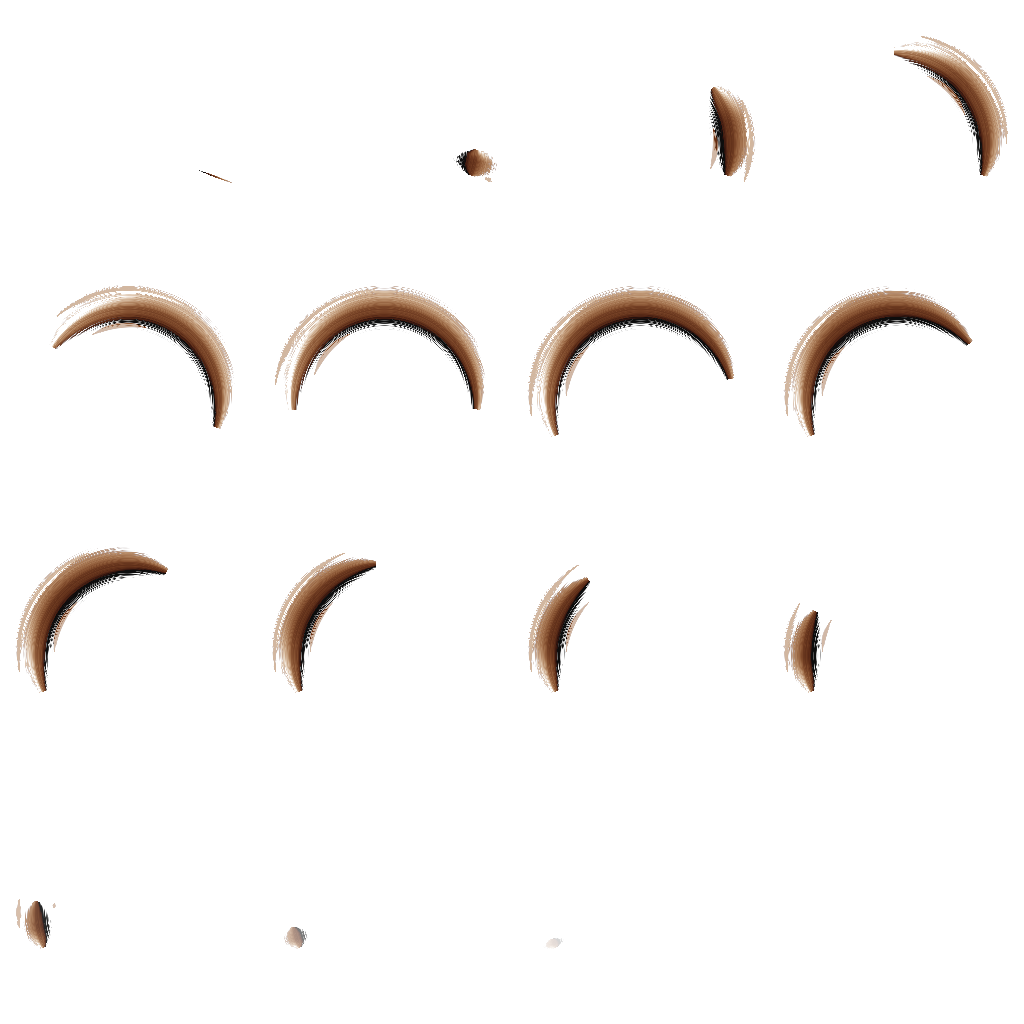
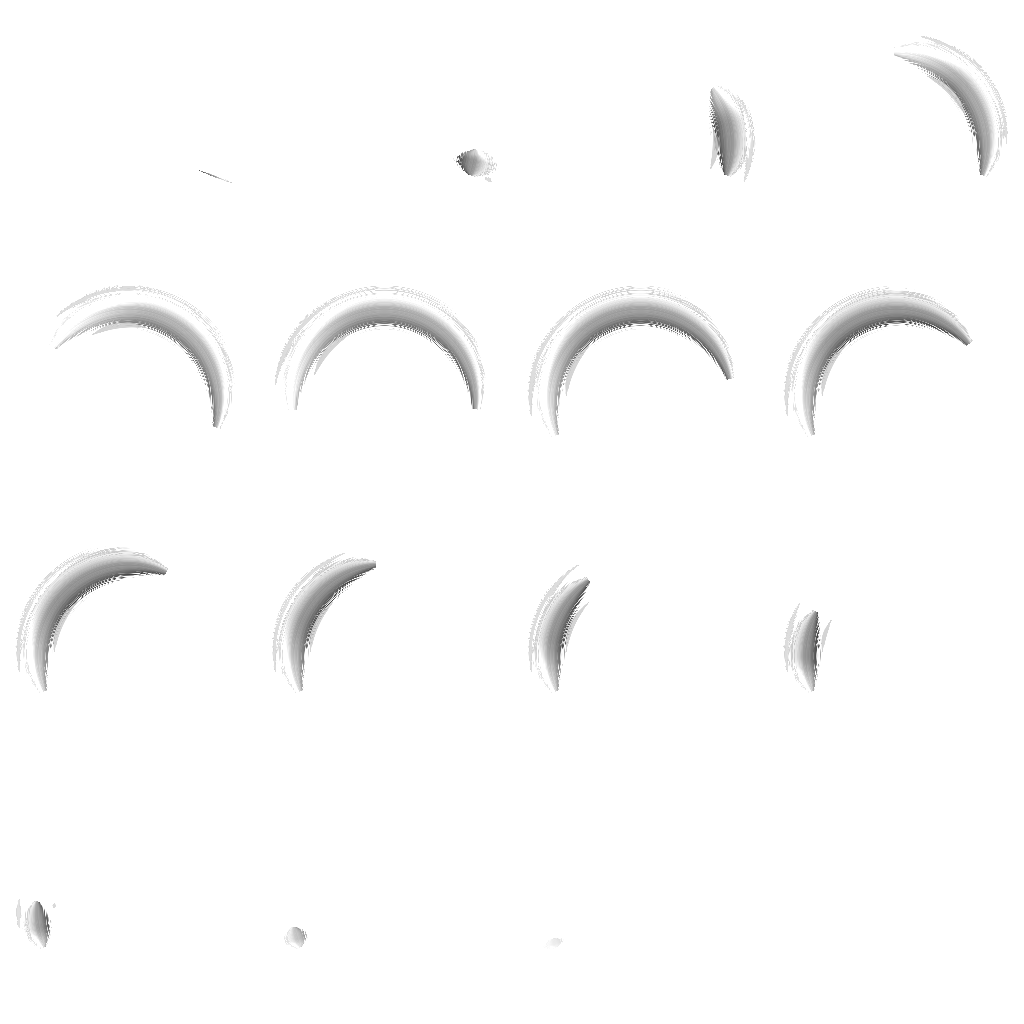
Add a Blender flipbook preview and the slash texture generator
tools/blender/preview_flipbook.py plays a Grid4x4 flipbook on two cards
(ice and fire tints, glowing like LightEmission) over a dark floor with a
ground glow and bloom. Works on Blender 3.x to 5.x.

tools/vfx/make_slash_crescent.py regenerates the crescent slash, now
neutral white so Roblox's Color tints it, brighter, with finer grain.

Claude-Session: https://claude.ai/code/session_01VW1eqeZ4PFMp5bCR7bGjsH

diff --git a/tools/blender/preview_flipbook.py b/tools/blender/preview_flipbook.py
@@ -1,0 +1,222 @@
+"""Preview a 4x4 VFX flipbook in Blender, the way Roblox plays it.
+
+Run it inside Blender (Scripting tab -> Open -> Run Script), or:
+    blender --python tools/blender/preview_flipbook.py -- assets/vfx/generated/slash_crescent_4x4.png
+
+It builds a dark floor, two cards playing the flipbook (tinted ice-blue and
+fire-orange, glowing like LightEmission = 1), a camera and bloom, then
+plays the animation in a loop. Press Space in the viewport to pause.
+"""
+import os
+import sys
+
+import bpy
+
+GRID = 4            # Grid4x4
+FPS = 30
+HOLD = 2            # Blender frames per flipbook frame (16 frames over ~1 s at 30 fps)
+TINTS = {"Ice": (0.55, 0.85, 1.0), "Fire": (1.0, 0.45, 0.12)}
+
+
+def flipbook_path() -> str:
+    argv = sys.argv[sys.argv.index("--") + 1:] if "--" in sys.argv else []
+    if argv:
+        return os.path.abspath(argv[0])
+    here = os.path.dirname(os.path.abspath(__file__)) if "__file__" in globals() else ""
+    guess = os.path.normpath(os.path.join(here, "..", "..", "assets", "vfx", "generated", "slash_crescent_4x4.png"))
+    if os.path.exists(guess):
+        return guess
+    blend_dir = bpy.path.abspath("//")
+    return os.path.join(blend_dir, "slash_crescent_4x4.png")
+
+
+def reset_scene():
+    scene = bpy.context.scene
+    for obj in list(scene.objects):          # clear the scene without touching the UI
+        bpy.data.objects.remove(obj, do_unlink=True)
+    scene.render.fps = FPS
+    scene.frame_start = 1
+    scene.frame_end = GRID * GRID * HOLD + 10   # a short gap before it loops
+    scene.render.engine = "BLENDER_EEVEE_NEXT" if "BLENDER_EEVEE_NEXT" in {e.identifier for e in bpy.types.RenderSettings.bl_rna.properties["engine"].enum_items} else "BLENDER_EEVEE"
+    eevee = scene.eevee
+    if hasattr(eevee, "use_bloom"):          # Blender < 4.2
+        eevee.use_bloom = True
+        eevee.bloom_intensity = 0.08
+    world = bpy.data.worlds.new("Dark")
+    world.use_nodes = True
+    world.node_tree.nodes["Background"].inputs[0].default_value = (0.02, 0.025, 0.035, 1)
+    scene.world = world
+    try:
+        scene.view_settings.view_transform = "AgX"
+    except TypeError:
+        scene.view_settings.view_transform = "Filmic"
+    return scene
+
+
+def add_glare(scene):
+    """Bloom through the compositor (Eevee lost its own bloom in Blender 4.2)."""
+    if hasattr(scene, "compositing_node_group"):          # Blender 5.x: the compositor is a node group
+        tree = bpy.data.node_groups.new("FlipbookBloom", "CompositorNodeTree")
+        tree.interface.new_socket("Image", in_out="OUTPUT", socket_type="NodeSocketColor")
+        out = tree.nodes.new("NodeGroupOutput")
+        scene.compositing_node_group = tree
+        out_socket = out.inputs[0]
+    else:                                                   # Blender 3.x / 4.x
+        scene.use_nodes = True
+        tree = scene.node_tree
+        out = tree.nodes.get("Composite") or tree.nodes.new("CompositorNodeComposite")
+        out_socket = out.inputs["Image"]
+    rl = tree.nodes.get("Render Layers") or tree.nodes.new("CompositorNodeRLayers")
+    glare = tree.nodes.new("CompositorNodeGlare")
+    settings = {"glare_type": "FOG_GLOW", "quality": "HIGH", "threshold": 0.8}
+    for key, value in settings.items():                     # properties before 4.4, input sockets after
+        if hasattr(glare, key):
+            setattr(glare, key, value)
+    for name, value in (("Type", "Fog Glow"), ("Quality", "High"), ("Threshold", 0.8)):
+        sock = glare.inputs.get(name)
+        if sock is not None:
+            try:
+                sock.default_value = value
+            except (TypeError, ValueError):
+                pass
+    tree.links.new(rl.outputs["Image"], glare.inputs["Image"])
+    tree.links.new(glare.outputs["Image"], out_socket)
+    for area in bpy.context.screen.areas if bpy.context.screen else []:
+        if area.type == "VIEW_3D":
+            for space in area.spaces:
+                if space.type == "VIEW_3D":
+                    space.shading.type = "RENDERED"
+                    if hasattr(space.shading, "use_compositor"):
+                        space.shading.use_compositor = "ALWAYS"
+
+
+def floor():
+    bpy.ops.mesh.primitive_plane_add(size=40, location=(0, 0, 0))
+    mat = bpy.data.materials.new("Floor")
+    mat.use_nodes = True
+    bsdf = mat.node_tree.nodes["Principled BSDF"]
+    bsdf.inputs["Base Color"].default_value = (0.05, 0.055, 0.07, 1)
+    bsdf.inputs["Roughness"].default_value = 0.8
+    bpy.context.object.data.materials.append(mat)
+
+
+def flipbook_material(name, image, tint):
+    mat = bpy.data.materials.new(name)
+    mat.use_nodes = True
+    if hasattr(mat, "surface_render_method"):
+        mat.surface_render_method = "BLENDED"
+    if hasattr(mat, "blend_method"):
+        mat.blend_method = "BLEND"
+    nt = mat.node_tree
+    nt.nodes.clear()
+    uv = nt.nodes.new("ShaderNodeTexCoord")
+    mapping = nt.nodes.new("ShaderNodeMapping")
+    mapping.inputs["Scale"].default_value = (1 / GRID, 1 / GRID, 1)
+    tex = nt.nodes.new("ShaderNodeTexImage")
+    tex.image = image
+    tex.interpolation = "Linear"
+    tex.extension = "CLIP"
+    tint_node = nt.nodes.new("ShaderNodeMixRGB")
+    tint_node.blend_type = "MULTIPLY"
+    tint_node.inputs["Fac"].default_value = 1
+    tint_node.inputs["Color2"].default_value = (*tint, 1)
+    emit = nt.nodes.new("ShaderNodeEmission")
+    emit.inputs["Strength"].default_value = 1.8
+    clear = nt.nodes.new("ShaderNodeBsdfTransparent")
+    mix = nt.nodes.new("ShaderNodeMixShader")
+    out = nt.nodes.new("ShaderNodeOutputMaterial")
+    L = nt.links.new
+    L(uv.outputs["UV"], mapping.inputs["Vector"])
+    L(mapping.outputs["Vector"], tex.inputs["Vector"])
+    L(tex.outputs["Color"], tint_node.inputs["Color1"])
+    L(tint_node.outputs["Color"], emit.inputs["Color"])
+    L(tex.outputs["Alpha"], mix.inputs["Fac"])
+    L(clear.outputs[0], mix.inputs[1])
+    L(emit.outputs[0], mix.inputs[2])
+    L(mix.outputs[0], out.inputs["Surface"])
+
+    # Step through the grid: frame k sits at column k % 4, row k // 4 counted from the top.
+    loc = mapping.inputs["Location"]
+    total = GRID * GRID
+    for k in range(total + 1):
+        cell = min(k, total - 1)
+        col, row = cell % GRID, cell // GRID
+        loc.default_value = (col / GRID, (GRID - 1 - row) / GRID, 0)
+        loc.keyframe_insert("default_value", frame=1 + k * HOLD)
+    # Hidden after the last cell (an empty corner of nothing) until the loop restarts.
+    loc.default_value = (5, 5, 0)
+    loc.keyframe_insert("default_value", frame=1 + total * HOLD)
+    action = nt.animation_data.action
+    curves = action.fcurves if hasattr(action, "fcurves") else [c for layer in action.layers for strip in layer.strips for bag in strip.channelbags for c in bag.fcurves]
+    for fc in curves:
+        for kp in fc.keyframe_points:
+            kp.interpolation = "CONSTANT"
+    return mat
+
+
+def card(name, image, tint, x):
+    bpy.ops.mesh.primitive_plane_add(size=6, location=(x, 0, 3.2), rotation=(1.5708, 0, 0))
+    obj = bpy.context.object
+    obj.name = name
+    obj.data.materials.append(flipbook_material(name, image, tint))
+    # a soft ground glow under the card, like the references' floor stain
+    bpy.ops.mesh.primitive_circle_add(radius=3, fill_type="NGON", location=(x, 0, 0.01))
+    glow = bpy.context.object
+    m = bpy.data.materials.new(name + "Stain")
+    m.use_nodes = True
+    if hasattr(m, "surface_render_method"):
+        m.surface_render_method = "BLENDED"
+    if hasattr(m, "blend_method"):
+        m.blend_method = "BLEND"
+    nt = m.node_tree
+    nt.nodes.clear()
+    grad = nt.nodes.new("ShaderNodeTexGradient")
+    grad.gradient_type = "SPHERICAL"
+    tc = nt.nodes.new("ShaderNodeTexCoord")
+    mp = nt.nodes.new("ShaderNodeMapping")
+    mp.inputs["Scale"].default_value = (0.33, 0.33, 0.33)
+    emit = nt.nodes.new("ShaderNodeEmission")
+    emit.inputs["Color"].default_value = (*tint, 1)
+    emit.inputs["Strength"].default_value = 0.35
+    clear = nt.nodes.new("ShaderNodeBsdfTransparent")
+    mix = nt.nodes.new("ShaderNodeMixShader")
+    out = nt.nodes.new("ShaderNodeOutputMaterial")
+    nt.links.new(tc.outputs["Object"], mp.inputs["Vector"])
+    nt.links.new(mp.outputs["Vector"], grad.inputs["Vector"])
+    falloff = nt.nodes.new("ShaderNodeMath")              # squared: a soft glow, not a disc
+    falloff.operation = "POWER"
+    falloff.inputs[1].default_value = 3.0
+    nt.links.new(grad.outputs["Fac"], falloff.inputs[0])
+    nt.links.new(falloff.outputs[0], mix.inputs["Fac"])
+    nt.links.new(clear.outputs[0], mix.inputs[1])
+    nt.links.new(emit.outputs[0], mix.inputs[2])
+    nt.links.new(mix.outputs[0], out.inputs["Surface"])
+    glow.data.materials.append(m)
+
+
+def camera():
+    bpy.ops.object.camera_add(location=(0, -21, 5.5), rotation=(1.47, 0, 0))
+    bpy.context.scene.camera = bpy.context.object
+    bpy.ops.object.light_add(type="AREA", location=(0, -4, 10))
+    bpy.context.object.data.energy = 300
+
+
+def main():
+    path = flipbook_path()
+    if not os.path.exists(path):
+        raise FileNotFoundError(f"Flipbook not found: {path}. Pass it after '--'.")
+    scene = reset_scene()
+    image = bpy.data.images.load(path)
+    image.alpha_mode = "STRAIGHT"
+    floor()
+    for i, (name, tint) in enumerate(TINTS.items()):
+        card(name, image, tint, -3.5 + i * 7)
+    camera()
+    add_glare(scene)
+    scene.frame_set(1)
+    if not bpy.app.background:
+        bpy.ops.screen.animation_play()
+    print("Flipbook preview ready:", path)
+
+
+main()

diff --git a/tools/vfx/make_slash_crescent.py b/tools/vfx/make_slash_crescent.py
@@ -1,0 +1,48 @@
+"""Generates assets/vfx/generated/slash_crescent_4x4.png (16-frame Grid4x4 flipbook). Run: python3 tools/vfx/make_slash_crescent.py"""
+import numpy as np
+from PIL import Image
+S = 256
+yy, xx = np.mgrid[0:S, 0:S].astype(np.float32)
+dx, dy = (xx-S*0.5)/S, (yy-S*0.56)/S
+r = np.sqrt(dx*dx+dy*dy)
+ang = np.arctan2(-dy, dx)
+ang = np.where(ang < -np.pi/2, ang+2*np.pi, ang)        # range [-pi/2, 3pi/2): the upper arc is continuous
+def sm(e0, e1, x):
+    t = np.clip((np.asarray(x)-e0)/(e1-e0), 0, 1); return t*t*(3-2*t)
+def lines(freq, seed):                                    # radial grain = brush bristles along the stroke
+    g = np.random.default_rng(seed).random(1024).astype(np.float32)
+    i = (r*freq) % 1023; i0 = i.astype(int); f = i-i0
+    return g[i0]*(1-f)+g[i0+1]*f
+b1, b2, b3 = lines(900, 1), lines(2200, 2), lines(400, 3)
+def stroke(R0, W, head, tail, d_noise):
+    a = np.clip((ang-tail)/max(head-tail, 1e-3), 0, 1)
+    inside = (ang >= tail) & (ang <= head)
+    w = W*np.sin(np.pi*np.clip(a*0.92+0.04, 0, 1))**0.8   # fat belly, needle tips
+    d = (r-R0)/np.maximum(w, 1e-4)                        # signed: <0 inside edge, >0 outside edge
+    m = np.where(inside, 1-sm(0.7, 1.0, np.abs(d)+d_noise), 0)
+    return m, d, a, inside
+N, frames = 16, []
+for k in range(N):
+    t = k/(N-1)
+    head = -0.35 + (np.pi+0.75)*sm(0.0, 0.4, t)           # sweeps right -> over the top -> left
+    tail = -0.35 + (np.pi+0.65)*sm(0.22, 0.95, t)         # tail chases it: stroke thins to nothing
+    tail = min(tail, head-0.02)
+    thin = 1-0.55*sm(0.5, 1.0, t)
+    main, d, a, ins = stroke(0.36, 0.10*thin, head, tail, 0.35*(1-b1))
+    wisp1, *_ = stroke(0.43, 0.022*thin, head-0.25, max(tail, head-1.6), 0.6*(1-b2))
+    wisp2, *_ = stroke(0.29, 0.016*thin, head-0.45, max(tail, head-1.2), 0.6*(1-b3))
+    lead = sm(0.55, 1.0, a)                                # bright leading edge, dimmer tail
+    outer = np.where(ins, sm(-0.1, 0.55, d), 0)            # outer edge is the hot cutting edge
+    hot = main*(0.5+0.5*outer)*(0.55+0.45*lead)*(0.88+0.12*b1)
+    dark = main*(1-sm(-0.9, -0.1, d))*0.55                 # inner side darkens: the dark-core contrast
+    wisps = np.clip(wisp1*0.8+wisp2*0.6, 0, 1)
+    flash = sm(0.12, 0.25, t)*(1-sm(0.25, 0.5, t))
+    fade = 1-sm(0.75, 1.0, t)
+    alpha = np.clip(main*0.95 + wisps*0.8, 0, 1)*fade
+    lum = np.clip(hot*1.7 + wisps*0.9 + flash*hot*0.6 - dark*0.8, 0, 1)**0.7
+    rgb = np.repeat(lum[..., None], 3, -1)   # neutral: Roblox tints it with Color
+    frames.append(np.dstack([rgb*255, alpha*255]).astype(np.uint8))
+sheet = np.zeros((S*4, S*4, 4), np.uint8)
+for k, f in enumerate(frames):
+    sheet[(k//4)*S:(k//4+1)*S, (k%4)*S:(k%4+1)*S] = f
+Image.fromarray(sheet, "RGBA").save("/home/user/RE-SPAWN/assets/vfx/generated/slash_crescent_4x4.png")
